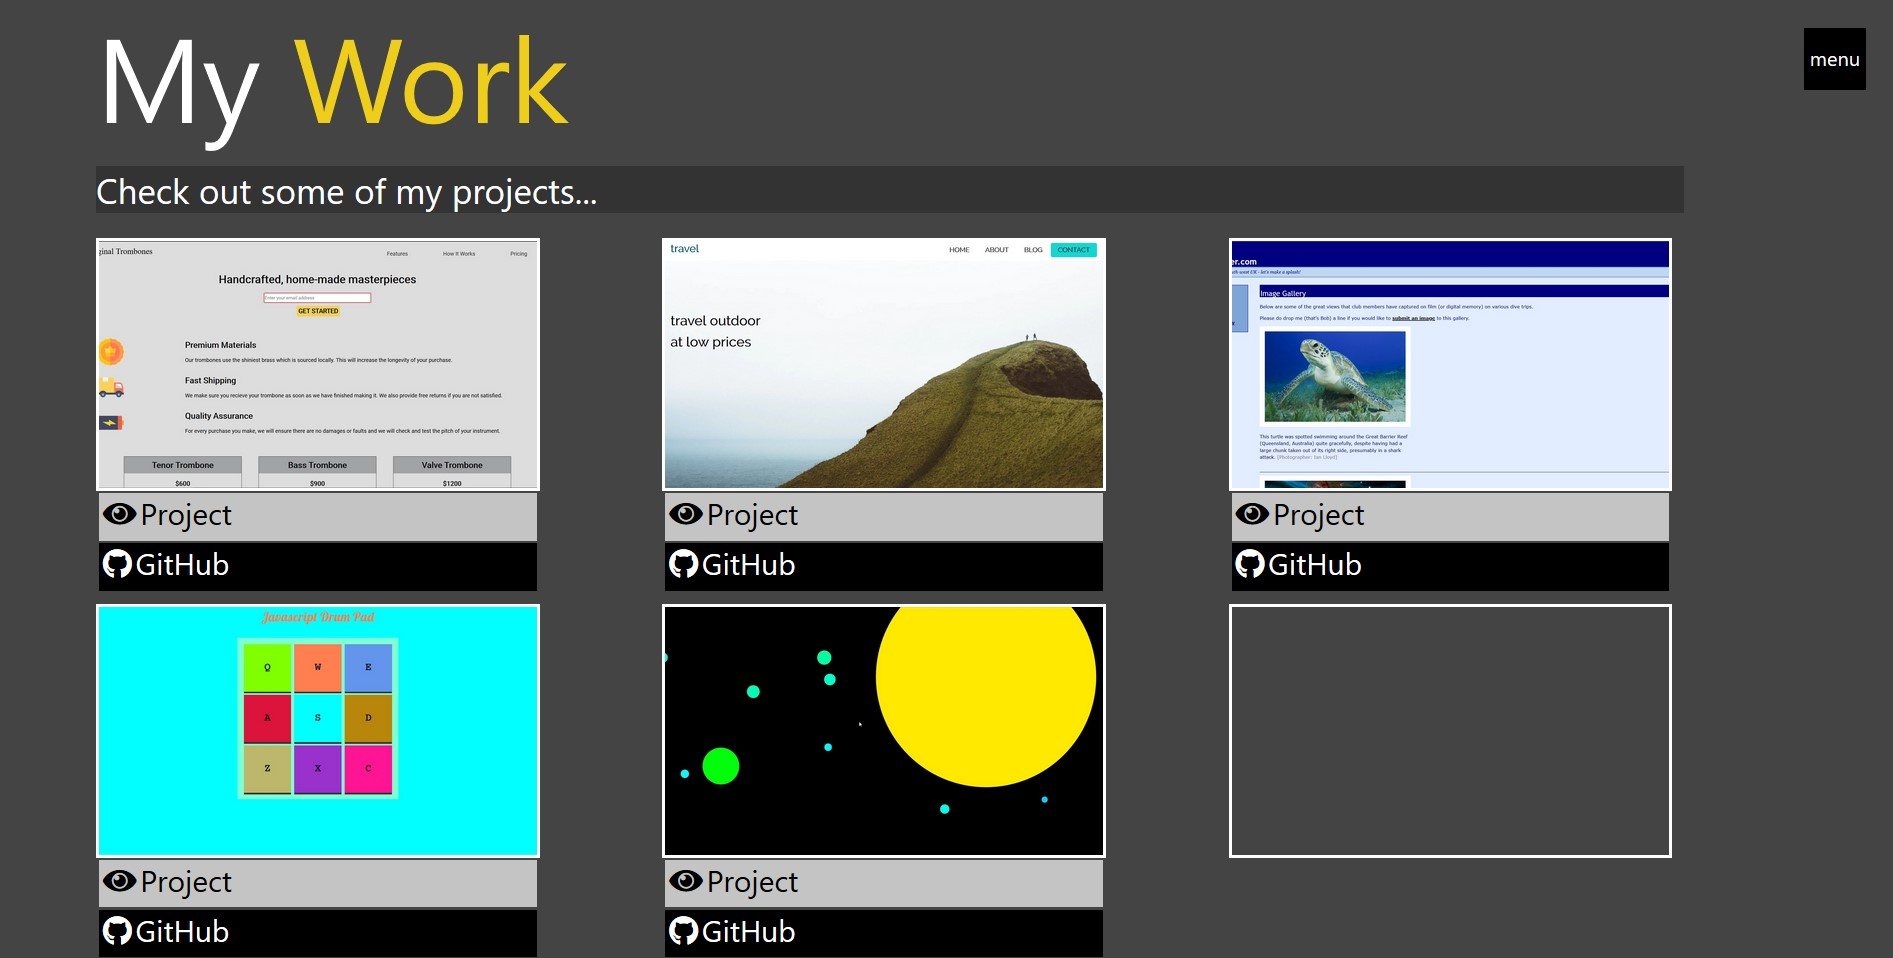
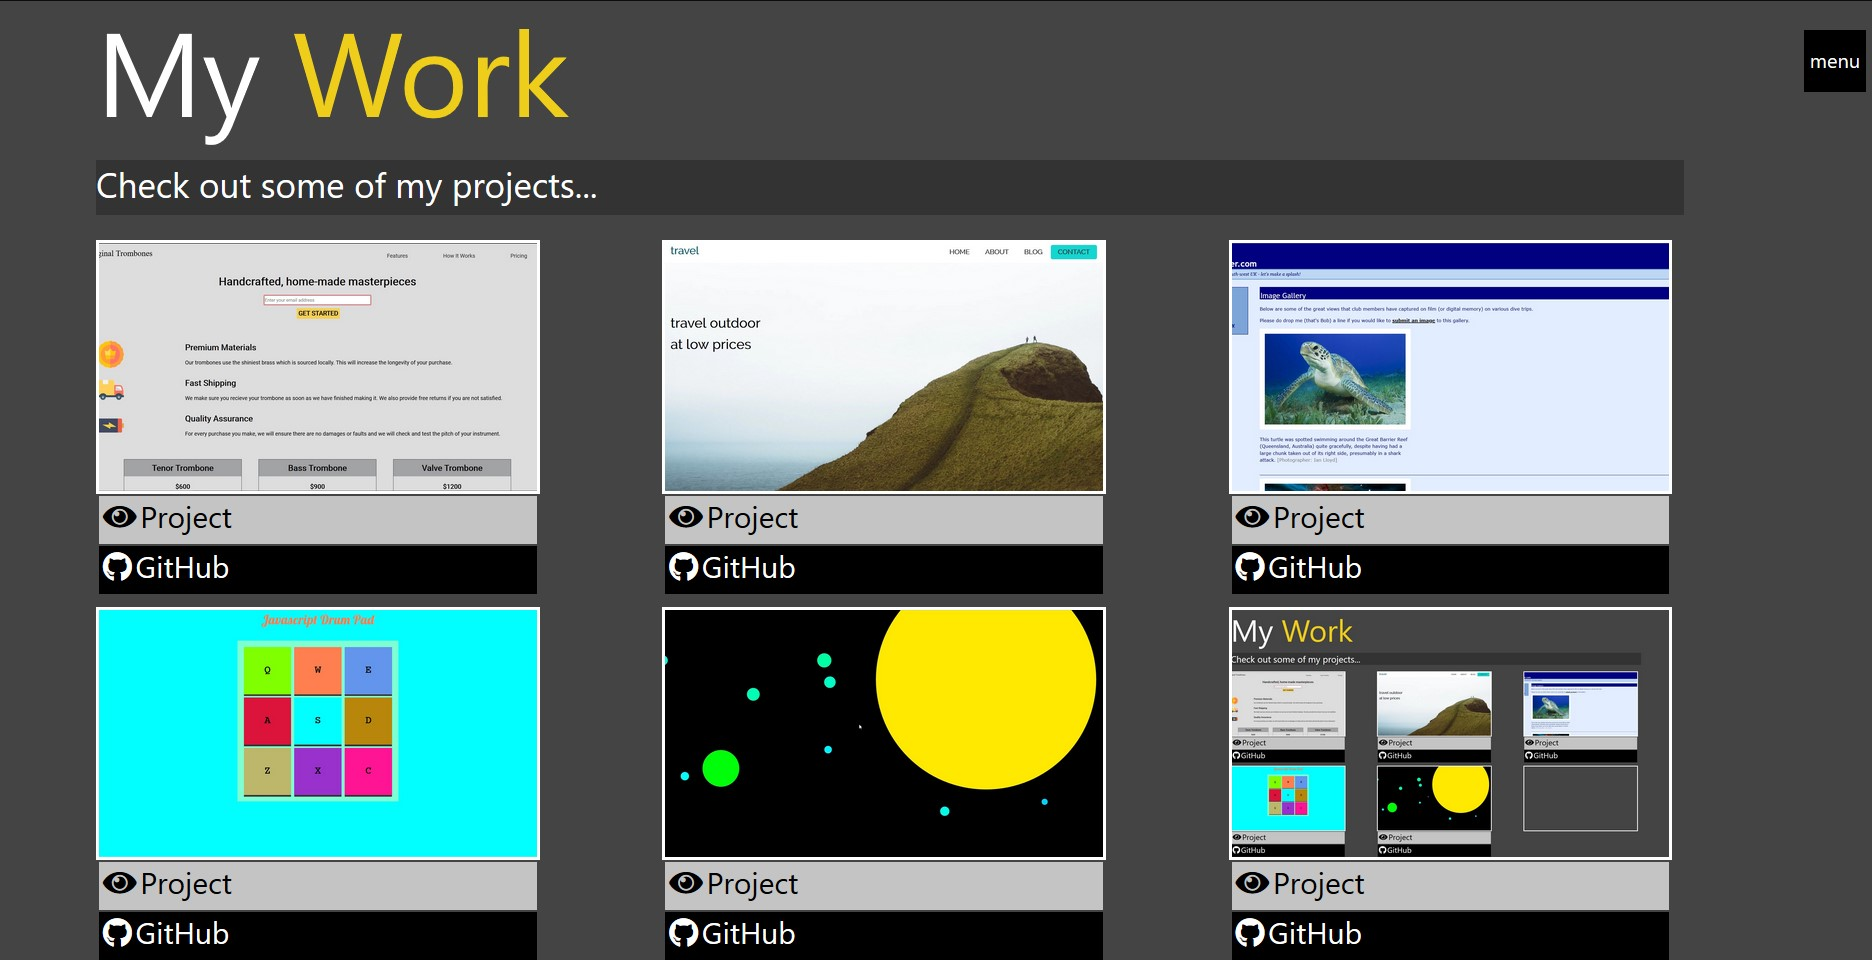
final work page-2

diff --git a/work.html b/work.html
@@ -30,33 +30,33 @@
       <p class="check">Check out some of my projects...</p>
       <div class="grid">
         <div class="box-1 box">
-          <a href="#"><img src="./img/projects/project1.jpg"/></a>
+          <a href="https://sad-banach-1a466f.netlify.com/"><img src="./img/projects/project1.jpg"/></a>
           <div class="space">
             <p class="project">
-              <a href="#"><i class="fas fa-eye"></i>Project</a>
+              <a href="https://sad-banach-1a466f.netlify.com/"><i class="fas fa-eye"></i>Project</a>
             </p>
             <p class="github">
-              <a href="#"><i class="fab fa-github"></i>GitHub</a>
+              <a href="https://github.com/rajesh6161/landing-page"><i class="fab fa-github"></i>GitHub</a>
             </p>
           </div>
         </div>
         <div class="box-2 box">
-          <a href="#"><img src="./img/projects/project2.jpg"/></a>
+          <a href="https://determined-pare-fe030b.netlify.com/"><img src="./img/projects/project2.jpg"/></a>
           <div class="space">
             <p class="project">
-              <a href="#"><i class="fas fa-eye"></i>Project</a>
+              <a href="https://determined-pare-fe030b.netlify.com/"><i class="fas fa-eye"></i>Project</a>
             </p>
-            <p class="github"><a href="#"><i class="fab fa-github"></i>GitHub</a></p>
+            <p class="github"><a href="https://github.com/rajesh6161/travel-page"><i class="fab fa-github"></i>GitHub</a></p>
           </div>
         </div>
         <div class="box-3 box">
-          <a href="#"><img src="./img/projects/project5.jpg"/></a>
+          <a href="https://jolly-morse-c6d1a1.netlify.com/"><img src="./img/projects/project5.jpg"/></a>
           <div class="space">
             <p class="project">
-              </i><a href="#"><i class="fas fa-eye"></i>Project</a>
+              </i><a href="https://jolly-morse-c6d1a1.netlify.com/"><i class="fas fa-eye"></i>Project</a>
             </p>
             <p class="github">
-              <a href="#"><i class="fab fa-github"></i>GitHub</a>
+              <a href="https://github.com/rajesh6161/my-first-webpage"><i class="fab fa-github"></i>GitHub</a>
             </p>
           </div>
         </div>
@@ -72,13 +72,13 @@
           </div>
         </div>
         <div class="box-5 box">
-          <a href="#"><img src="./img/projects/project6.jpg"/></a>
+          <a href="https://optimistic-shannon-890e7e.netlify.com/"><img src="./img/projects/project6.jpg"/></a>
           <div class="space">
             <p class="project">
-              <i class="fas fa-eye"></i><a href="#">Project</a>
+              <i class="fas fa-eye"></i><a href="https://optimistic-shannon-890e7e.netlify.com/">Project</a>
             </p>
             <p class="github">
-              <a href="#"><i class="fab fa-github"></i>GitHub</a>
+              <a href="https://github.com/rajesh6161/circles-JS"><i class="fab fa-github"></i>GitHub</a>
             </p>
           </div>
         </div>

diff --git a/css/work.css b/css/work.css
@@ -89,12 +89,14 @@ ul img {
   margin-bottom: 42px;
 }
 main {
-  margin: 80px 80px;
+  margin-left: 100px;
+  margin-right: 50px;
+  padding-bottom: 30px;
 }
 .grid {
   display: grid;
   grid-template-columns: repeat(3, 1fr);
-  grid-row-gap: 90px;
+  grid-row-gap: 100px;
 }
 .box {
   width: 355px;
@@ -185,4 +187,7 @@ i {
   padding-bottom: 6px;
   font-size: 24px;
   padding-right: 3.5px;
+}
+.space {
+  margin-top: 10px;
 }

diff --git a/about.html b/about.html
@@ -23,7 +23,7 @@
       <img src="./img/portrait_small.jpg" />
       <li><a href="index.html">Home</a></li>
       <li><a href="about.html">About</a></li>
-      <li><a href="#">My Projects</a></li>
+      <li><a href="work.html">My Projects</a></li>
       <li><a href="#">Contact</a></li>
     </ul>
     <main>
